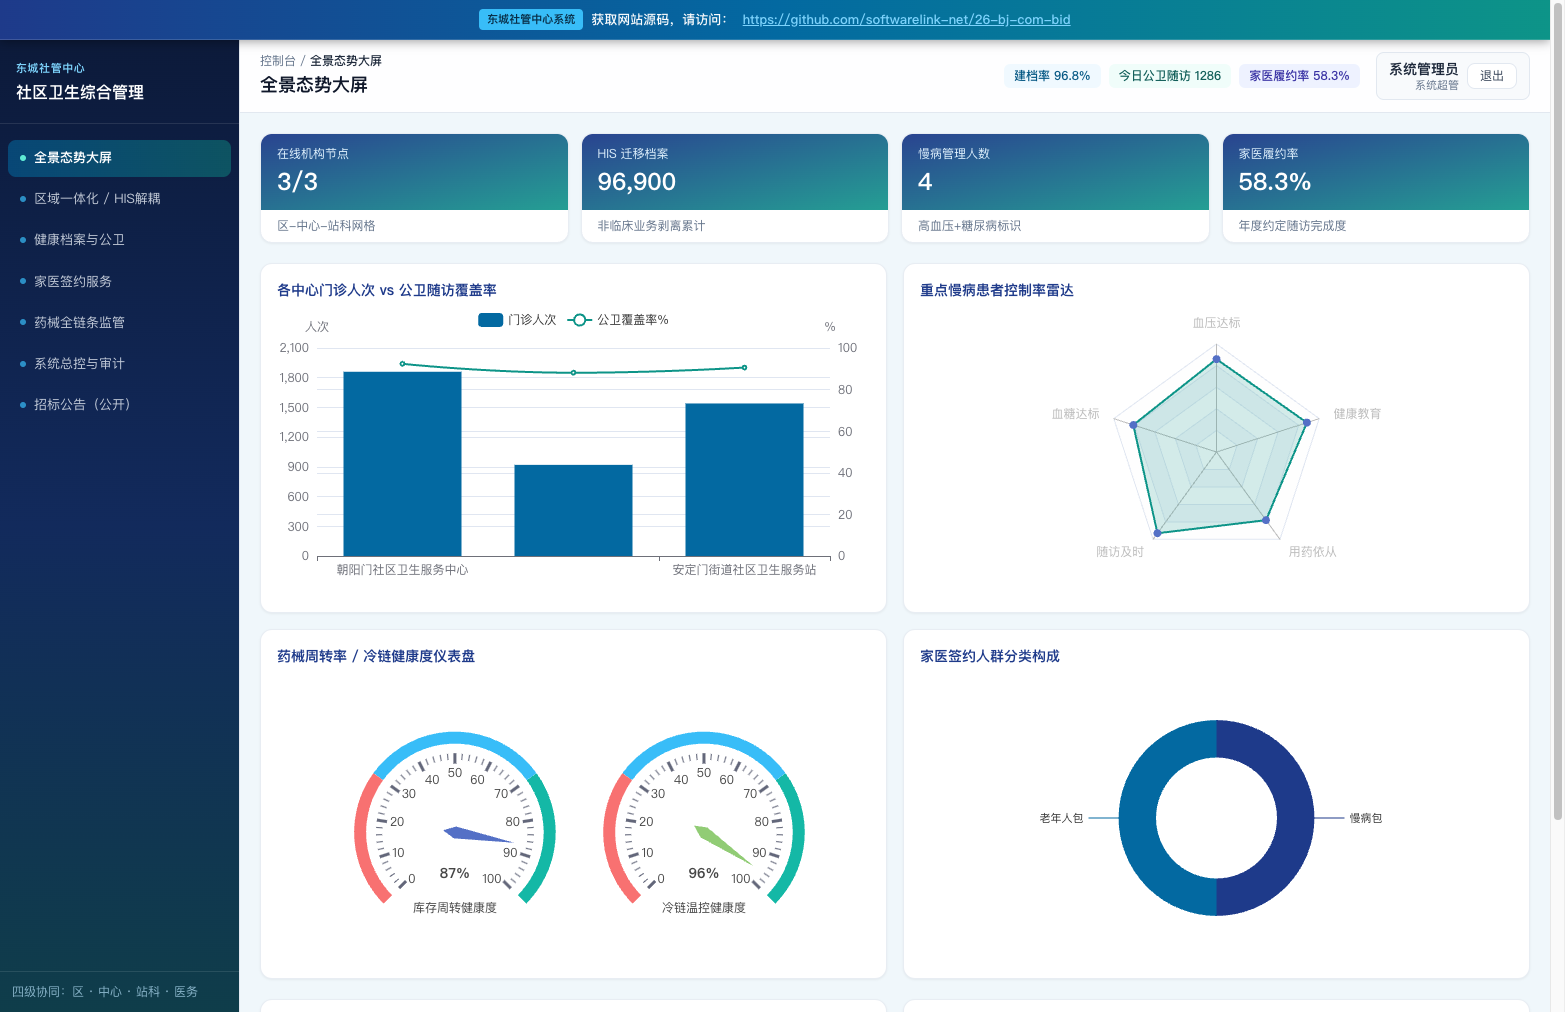
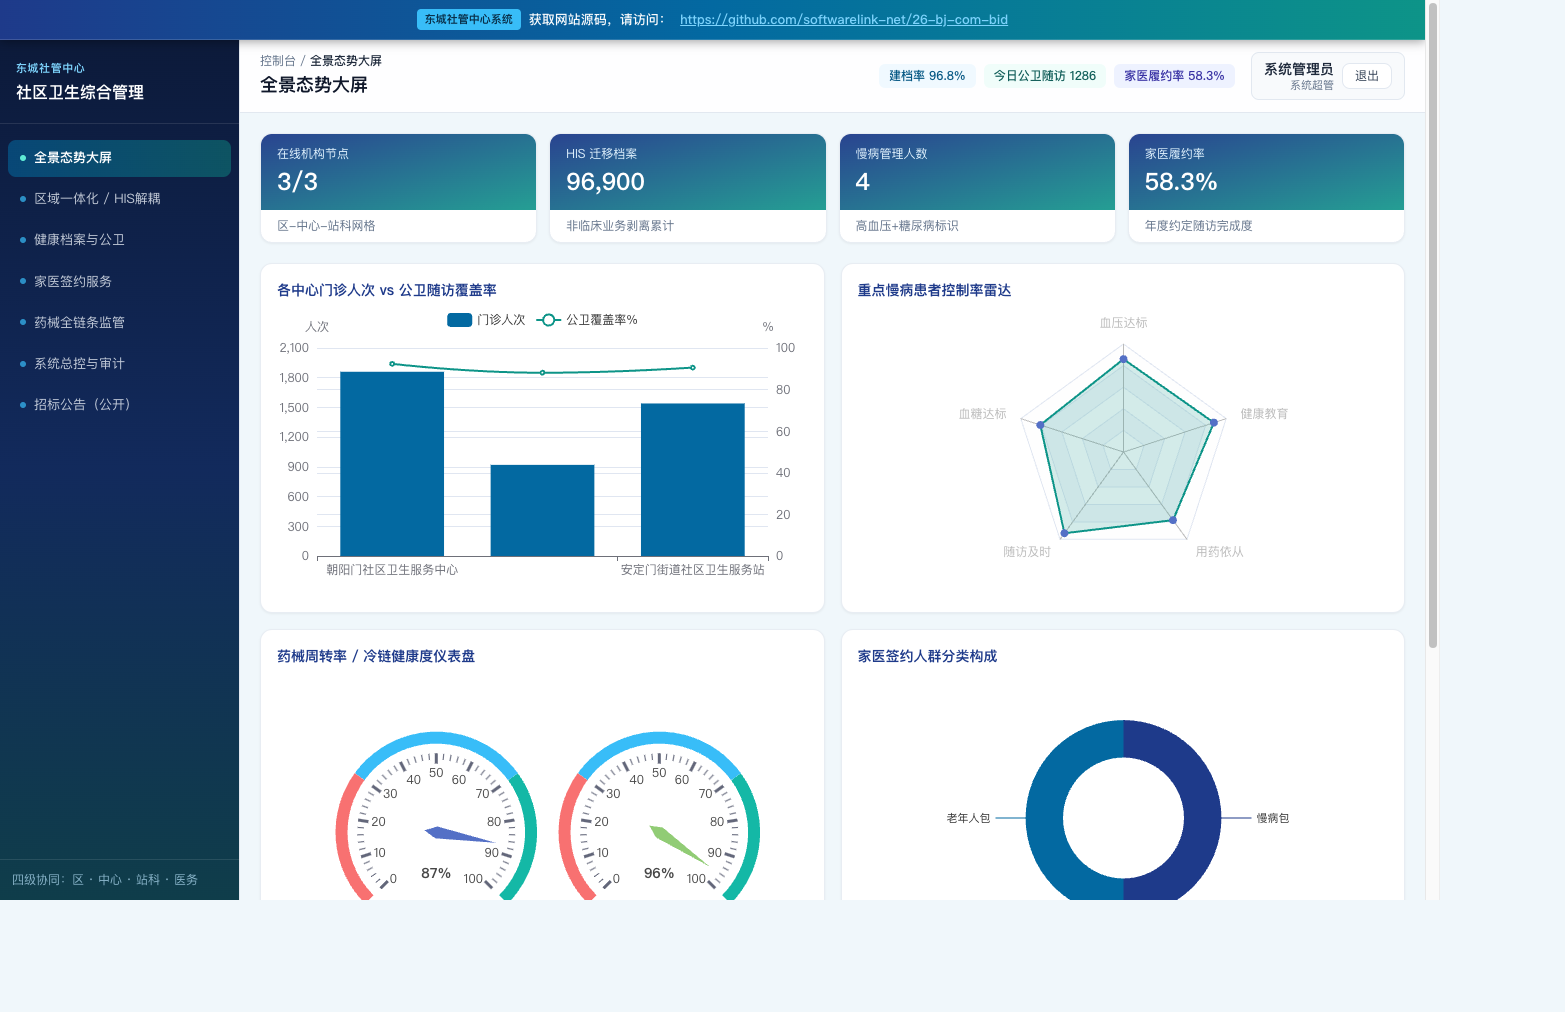
fix: bundle sql.js WASM via Vite so production login initializes
Serve the browser WASM from build assets with magic-byte validation and public fallbacks, and refresh the dashboard preview after a successful local login.

diff --git a/src/utils/sqljs-engine.ts b/src/utils/sqljs-engine.ts
@@ -1,4 +1,6 @@
 import initSqlJs, { type Database, type SqlJsStatic } from 'sql.js'
+// 由 Vite 打进 assets，避免线上缺 public/sqljs 或被 SPA 回退成 HTML
+import bundledWasmUrl from 'sql.js/dist/sql-wasm-browser.wasm?url'
 
 export type RoleCode =
   | 'ROLE_SUPER_ADMIN'
@@ -292,17 +294,49 @@ function resolveSqlJsInit(mod: unknown): SqlJsInit {
   throw new Error('sql.js 浏览器构建未能导出初始化函数')
 }
 
+function isWasmMagic(bytes: Uint8Array): boolean {
+  return (
+    bytes.length >= 4 &&
+    bytes[0] === 0x00 &&
+    bytes[1] === 0x61 &&
+    bytes[2] === 0x73 &&
+    bytes[3] === 0x6d
+  )
+}
+
+async function loadWasmBinary(urls: string[]): Promise<{ wasmBinary: Uint8Array; wasmUrl: string }> {
+  const errors: string[] = []
+  for (const wasmUrl of urls) {
+    try {
+      const wasmResponse = await fetch(wasmUrl)
+      if (!wasmResponse.ok) {
+        errors.push(`${wasmUrl} → HTTP ${wasmResponse.status}`)
+        continue
+      }
+      const wasmBinary = new Uint8Array(await wasmResponse.arrayBuffer())
+      if (!isWasmMagic(wasmBinary)) {
+        errors.push(`${wasmUrl} → 非 WASM（可能被 SPA 回退成 HTML）`)
+        continue
+      }
+      return { wasmBinary, wasmUrl }
+    } catch (err) {
+      errors.push(`${wasmUrl} → ${String(err)}`)
+    }
+  }
+  throw new Error(`无法加载 SQLite WASM:\n${errors.join('\n')}`)
+}
+
 export async function initSqlEngine(): Promise<void> {
   if (ready && db) return
   // 浏览器构建请求 sql-wasm-browser.wasm。外网 CDN（sql.js.org）在国内常失败，
   // 且 fetch 失败后没有同步回退，会抛出 both async and sync fetching of the wasm failed。
+  // 优先使用 Vite 打包后的 assets URL，再回退到 public/sqljs。
   const base = import.meta.env.BASE_URL || '/'
-  const wasmUrl = `${base}sqljs/sql-wasm-browser.wasm`
-  const wasmResponse = await fetch(wasmUrl)
-  if (!wasmResponse.ok) {
-    throw new Error(`无法加载 SQLite WASM: ${wasmResponse.status} ${wasmUrl}`)
-  }
-  const wasmBinary = new Uint8Array(await wasmResponse.arrayBuffer())
+  const { wasmBinary, wasmUrl } = await loadWasmBinary([
+    bundledWasmUrl,
+    `${base}sqljs/sql-wasm-browser.wasm`,
+    `${base}sqljs/sql-wasm.wasm`,
+  ])
   const init = resolveSqlJsInit(initSqlJs)
   SQL = await init({
     wasmBinary,

diff --git a/vite.config.ts b/vite.config.ts
@@ -9,8 +9,10 @@ export default defineConfig({
       '@': fileURLToPath(new URL('./src', import.meta.url)),
     },
   },
+  assetsInclude: ['**/*.wasm'],
   optimizeDeps: {
     include: ['sql.js'],
+    exclude: ['sql.js/dist/sql-wasm-browser.wasm'],
   },
   server: {
     port: 5173,

diff --git a/env.d.ts b/env.d.ts
@@ -6,6 +6,11 @@ declare module '*.vue' {
   export default component
 }
 
+declare module '*.wasm?url' {
+  const src: string
+  export default src
+}
+
 declare module 'sql.js' {
   export interface SqlValue {
     [key: string]: string | number | null | Uint8Array
